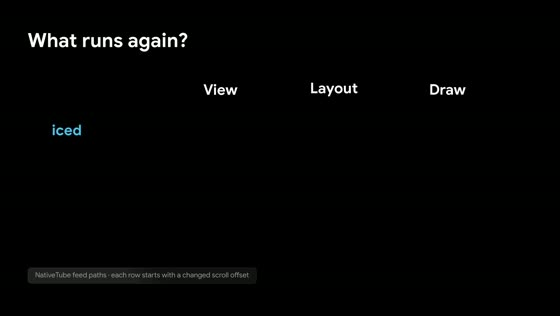
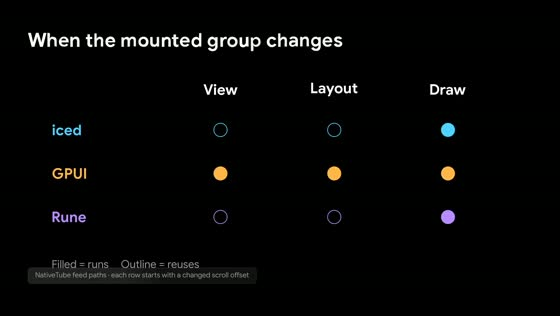
Define frame stages and compare measured scroll work

diff --git a/tools/viz/scenes.py b/tools/viz/scenes.py
@@ -1158,9 +1158,14 @@ class FrameworkUpdates(Page):
         names = VGroup(*(label(name, -6.85, y, VALUE, color, bold=True, font=self.title_font)
                          for name, y, color in zip(stages, ys, colors, strict=True)))
         strips = [self.strip(y, color) for y, color in zip(ys, colors, strict=True)]
-        self.title("What has to run again?")
-        self.play(FadeIn(names), *(FadeIn(group) for group in strips), run_time=.8)
-        self.foot("View chooses the cards. Layout places them. Draw produces the frame.")
+        self.title("Building a frame")
+        definitions = VGroup(*(label(text, -6.85, y - .45, LABEL, MUTED, font=self.title_font)
+                               for text, y in zip(("Which cards?", "Size and position", "Paint pixels"), ys, strict=True)))
+        for name, definition, strip in zip(names, definitions, strips, strict=True):
+            self.play(FadeIn(name), FadeIn(definition), FadeIn(strip), run_time=.6)
+            self.wait(.8)
+        self.wait(1.5)
+        self.play(FadeOut(definitions), run_time=.3)
 
         self.title("Same cards, new offset")
         self.foot("iced translates cached geometry. Rune samples a bound offset.")
@@ -1215,6 +1220,25 @@ class FrameworkUpdates(Page):
                     for dot in row[:2]), run_time=.75)
         self.foot("The view and layout run again when iced or Rune mounts new cards.")
         self.wait(1.5)
+        self.clear_stage(run_time=.4)
+
+        results = data.read(".cache/media/out/fair/summary.json")
+        for machine, heading in (("Laptop GPU", "Laptop with GPU"), ("Fly no GPU", "Fly VM without GPU")):
+            self.title(heading)
+            self.foot("Million CPU instructions per drawn scroll frame · lower is better · own scale")
+            wheel = results[machine]["metrics"]["wheel_minstr_per_frame"]["off"]
+            values = [wheel[app]["warm"]["median"] for app in APPS]
+            for app, value, y in zip(APPS, values, ys, strict=True):
+                color = COLOR[app]
+                width = 7.9 * value / max(values)
+                self.play(
+                    FadeIn(label(NAME[app], -6.85, y, VALUE, color, bold=True, font=self.title_font)),
+                    GrowFromEdge(bar(-3.7, y, width, color, height=.26), LEFT),
+                    FadeIn(label(f"{value:.3g}", -3.4 + width, y, VALUE, font=self.title_font)),
+                    run_time=.4,
+                )
+            self.wait(1.5)
+            self.clear_stage(run_time=.35)
 
     @classmethod
     def strip(cls, y, color):
@@ -1223,8 +1247,9 @@ class FrameworkUpdates(Page):
     @staticmethod
     def tile(x, y, color, index):
         shell = RoundedRectangle(width=1.95, height=.95, corner_radius=.12,
-                                 stroke_color=color, stroke_width=2.5, fill_color=color,
-                                 fill_opacity=.18 if y < 0 else .04).move_to(point(x, y))
+                                 stroke_color=color, stroke_width=2.5 if y < 1 else 0,
+                                 fill_color=color,
+                                 fill_opacity=.4 if y < 0 else 0).move_to(point(x, y))
         glyphs = VGroup()
         for i in range(1 + index % 4):
             glyphs.add(Dot(point(x + .23 * (i - (index % 4) / 2), y),

diff --git a/tools/viz/render.py b/tools/viz/render.py
@@ -377,6 +377,7 @@ def main():
     tour_receipts = tours.main(fly, wanted)
     references = source_map(fly, tour_receipts)
     references["FrameworkUpdates"] = {
+        "Matched scroll counters": ["docs/media/fair.md", ".cache/media/out/fair/summary.json"],
         "NativeTube update and scroll paths": ["apps/iced/src/scroller.rs", "apps/gpui/NOTES.md",
                                               "apps/rune/src/scroller.rs", "apps/rune/src/view.rs"],
     }

diff --git a/docs/blog/x-article.md b/docs/blog/x-article.md
@@ -22,7 +22,7 @@ All three use the same Rust core for networking, image caching, scroll physics, 
 
 ### How each framework updates the UI
 
-[MEDIA: .cache/viz/out/FrameworkUpdates.mp4 — Follow the same cards through view, layout, and draw. See what each client reuses as the feed scrolls and new cards come into range.]
+[MEDIA: .cache/viz/out/FrameworkUpdates.mp4 — See how a feed becomes a frame, what each client reuses on scroll, and how the measured CPU work changes between the laptop and VM.]
 
 Picture a feed at rest. Keep three snapshots in mind: **which cards are mounted**, **the sizes and positions layout computed for them**, and **the last frame you saw**. Now scroll a little. The frame has to change. The mounted card list can stay the same, and the renderer can shift cards using the geometry it already has. Scroll farther and the app needs a different group of cards. The view must describe that group, layout must place it, and draw must produce a new frame.
 
@@ -33,7 +33,9 @@ Read the scroll handler as a state transition. The app starts with **(mounted ca
 | Offset changes within the mounted group | Reuse view and layout. Draw with a translation. | Rebuild the page view, run Taffy layout, draw. | Reuse view and layout. Sample the live offset, draw. |
 | Scroll reaches the next mounted group | Send a message, rebuild the group, lay it out, draw. | The page view and layout still run. Cached chrome can be reused. | Commit a view with the new group, lay it out, draw. |
 
-Here **rebuild** means running view code again. **Layout** resolves geometry, potentially using cached work. **Draw** emits a frame using the resulting geometry and transforms. A frame can be redrawn while the view and layout are reused. Likewise, running page view code can leave a cached sidebar untouched.
+**View** describes what belongs in the interface, such as a thumbnail and title for each mounted video. **Layout** gives those elements sizes and positions, such as a 160-pixel thumbnail beside a title that wraps to fit. **Draw** turns those descriptions and positions into drawing commands. The renderer produces the pixels, clipping cards at the viewport edge and applying the scroll offset. For a small scroll, iced and Rune can draw the same cards at a new offset using their existing geometry.
+
+The transition table tracks which stages run. Each stage can cost a different amount. Rune had the lowest instructions per drawn frame on the GPU laptop (**8.25 million**), with iced close at **8.56 million** and GPUI at **17.5 million**. Rune and iced overlapped on laptop CPU time. On the software-rendered VM, iced led at **175 million**, with Rune at **442 million** and GPUI at **481 million**. View reuse can save CPU, and the renderer and the work the app submits still affect the total.
 
 **React on the web.** A state setter queues work. React runs the relevant components to produce element descriptions, reconciles them with the previous render, and commits the needed DOM changes. The DOM is the browser’s tree of page objects. What changed determines the subsequent browser work. Changing text can affect layout. A transform can sometimes be handled in compositing. Rendering a React component therefore tells you little by itself about the cost of the final frame. [React’s render and commit guide](https://react.dev/learn/render-and-commit)
 
